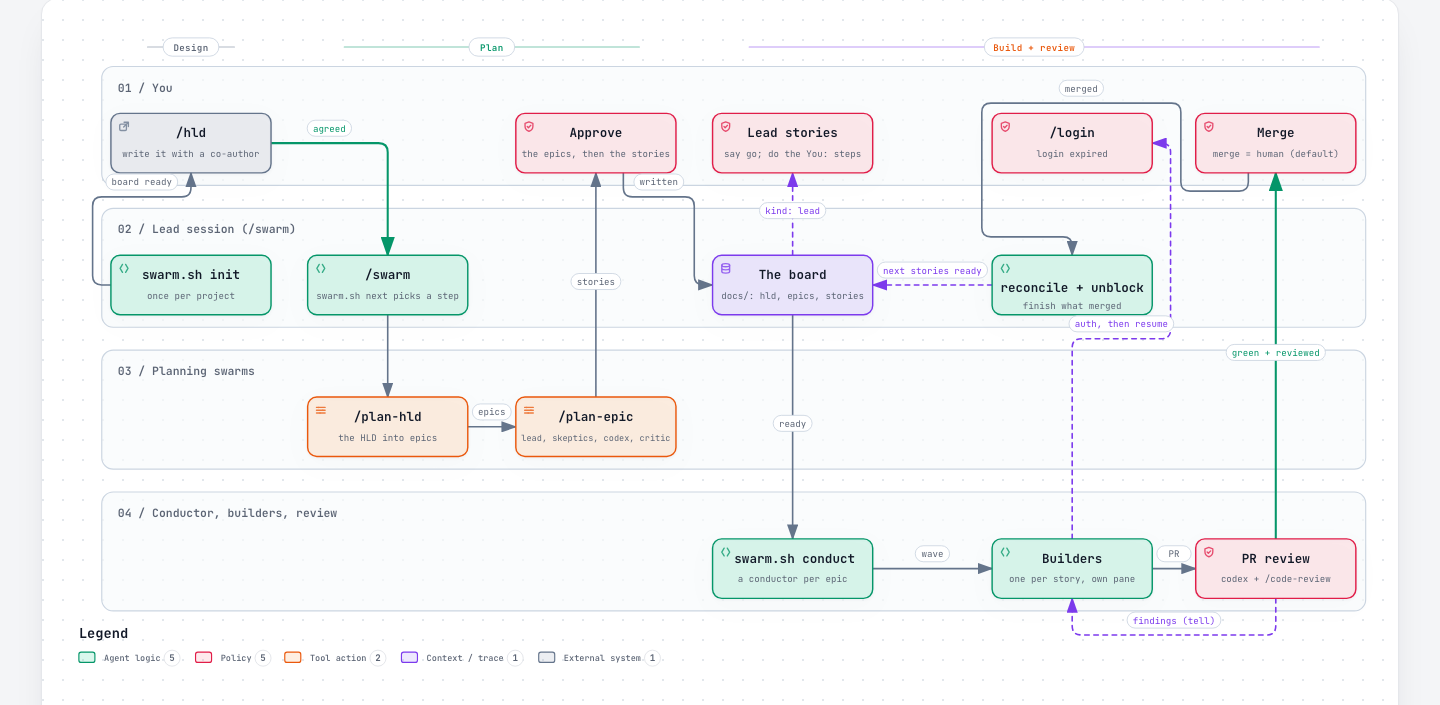
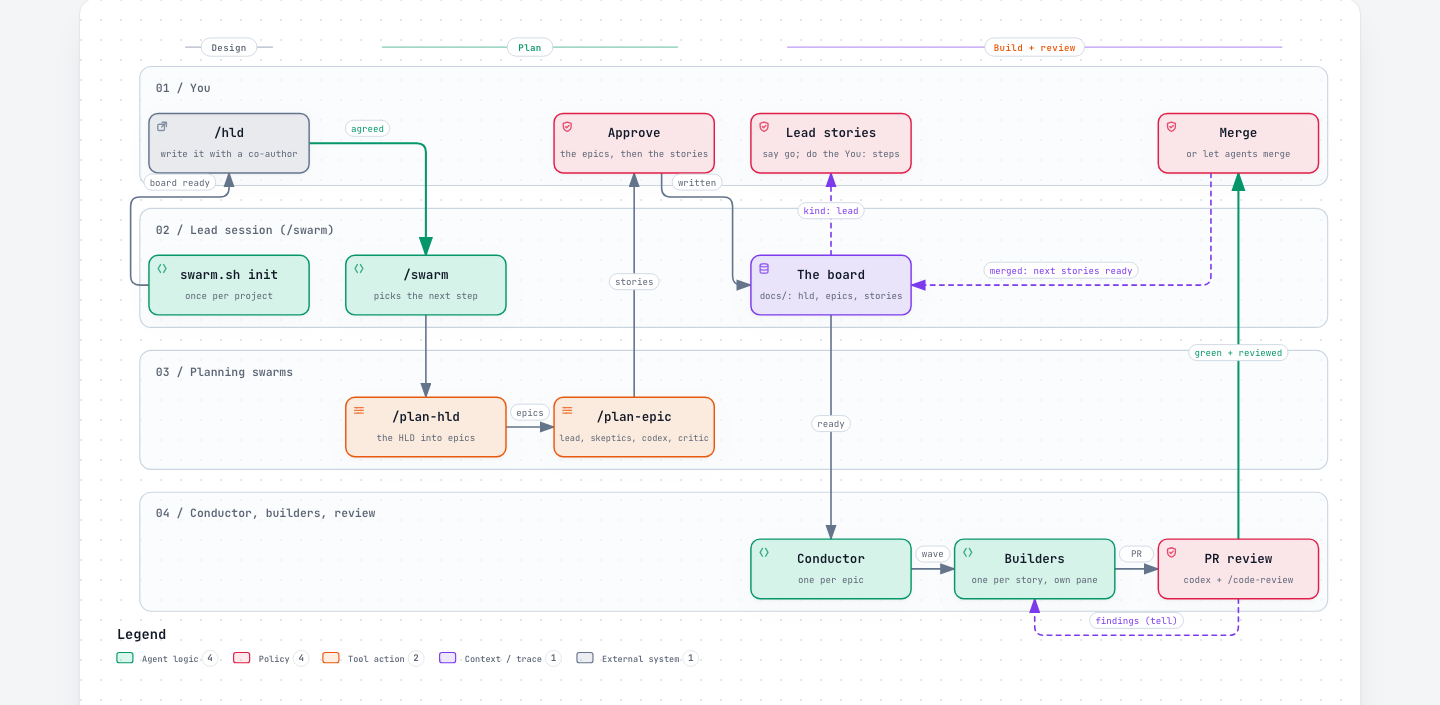
README at a new reader's level; drop /login and reconcile from the flow diagram

diff --git a/README.md b/README.md
@@ -7,7 +7,7 @@ swarm-dev runs a team of Claude Code agents that build software while you watch.
 with one agent. Others plan it, try to break the plan, and build it in parallel, each in its own
 terminal pane. The run stops whenever a decision is yours.
 
-![swarm.sh dash --watch on a demo project, 160 columns wide: what needs you and the epics on the left, recent on the right, a status bar below](docs/assets/dash.gif)
+![swarm.sh dash --watch on a demo project: what needs you and the epics on the left, recent work on the right](docs/assets/dash.gif)
 
 ## How it works
 
@@ -16,82 +16,66 @@ terminal pane. The run stops whenever a decision is yours.
   <img alt="How the swarm builds a design: /hld, /swarm, /plan-hld, /plan-epic, the board, conductor, builders, review, merge" src="docs/assets/swarm-flow-light.png">
 </picture>
 
-You agree the design, approve the epics and stories, merge PRs, and do the steps only a person can.
-Your own Claude session is the lead: it runs `/swarm`, keeps an eye on the agents, and handles
-`kind: lead` stories, which cover real cloud, credentials and anything hard to undo. Your steps in
-those stories are marked **You:**. Agents plan, conduct and build the rest. Each builder gets its
-own worktree and pane, shows that its tests can fail, and fixes the review findings (codex and
-`/code-review`) on its own PR.
+1. You write a high-level design (HLD) with a co-author agent.
+2. A planning swarm splits the design into epics, then each epic into stories of one PR
+   each. Skeptic agents and codex try to break every plan before you see it, and you approve it.
+3. A conductor agent takes an epic and starts one builder per story, each in its own git
+   worktree and pane. Each PR is reviewed by codex and `/code-review`, and the builder fixes what
+   they find.
+4. Green, reviewed PRs wait for you to merge, and the next stories start.
 
-Two loops feed what reviews find back into the work:
+Your own Claude session is the lead. It runs `/swarm`, keeps an eye on the agents, and handles
+`kind: lead` stories: real cloud, credentials and anything hard to undo. Your steps in those
+stories are marked **You:**.
 
-| Loop | What happens |
-|---|---|
-| Inner (one PR) | codex and `/code-review` review the PR, the lead sends findings back with `swarm.sh tell`, and the builder fixes and pushes. This repeats until a pass on the latest head finds nothing substantive. Each fixed finding is logged with `swarm.sh log-finding <kind>`, and each declined one with `log-finding --declined <kind>`. |
-| Outer (across PRs) | When a kind of finding has been fixed in 3 or more PRs within 90 days, or the lead has a memory tagged `lesson: <kind>`, `swarm.sh lessons` turns it into a one-line rule PR titled `lesson: <kind>` for the brief or `lessons_file`. Later builders read that rule. You merge or close it, and a rule you closed is not proposed again for 90 days. |
+When reviews keep finding the same kind of problem across PRs, `/swarm`
+proposes a one-line rule for future builders, as a PR titled `lesson: <kind>`. You merge it
+or close it.
 
-The full method is in [`docs/method.md`](docs/method.md). The diagram's source is
-[`docs/assets/swarm-flow.workflow.json`](docs/assets/swarm-flow.workflow.json), made with
-[Archify](https://github.com/tt-a1i/archify).
+Everything is plain Markdown in `docs/` (the board), so a run can stop anywhere and the next
+`/swarm` picks up where it left off. The full method is in [`docs/method.md`](docs/method.md).
 
 ## Requirements
 
-You need [Claude Code](https://claude.com/claude-code) 2.1.145 or later, [herdr](https://herdr.dev), the
-[GitHub CLI](https://cli.github.com) and the [codex CLI](https://github.com/openai/codex), with both
-CLIs logged in, plus `git`, `python3` and `bash`. herdr is the terminal multiplexer every agent runs
-in, and `/hld`, `/plan-epic` and `/swarm` stop outside it.
+- [Claude Code](https://claude.com/claude-code) 2.1.145 or later
+- [herdr](https://herdr.dev), the terminal multiplexer every agent runs in
+- the [GitHub CLI](https://cli.github.com) and the [codex CLI](https://github.com/openai/codex), both logged in
+- `git`, `python3` and `bash`
 
-swarm.sh reads each agent's state from `claude agents --json`, which older versions lack, so it
-refuses to start an agent on anything before 2.1.145. It also refuses when the session you run it
-from is missing from that list. In either case, run `claude update` and restart Claude Code.
-
-[Obsidian](https://obsidian.md) is optional. It shows `docs/` as a vault through `Board.base` and
-`HLDs.base`, but the board is plain Markdown with front matter and works without it.
+[Obsidian](https://obsidian.md) is optional: it shows the board as a vault, grouped by status.
 
 ![The board in Obsidian, grouped by status](docs/assets/board.png)
 
 ## Getting started
 
-1. Install the requirements above.
-2. Install the plugin, then restart Claude Code:
+1. Install the plugin, then restart Claude Code:
 
    ```bash
    claude plugin marketplace add redscaresu/swarm-dev && claude plugin install swarm-dev@swarm-dev
    ```
 
-3. From your project's root, run `swarm.sh init` (or run `/swarm`, which offers to do it). It
-   copies the board into `docs/`, leaving any file already there alone, creates `.claude/swarm/`
-   and adds `.swarm/` and the Obsidian lines to `.gitignore`. Running it again changes nothing.
+2. In your project's root, run `claude` once and accept "do you trust this folder?". Agents work in
+   worktrees of the repo and can't start until it is trusted.
+3. Inside herdr, run `claude`, then `/swarm`. The first time, it offers to set up the board and asks
+   once for your rules for builders (commit trailers, where credentials live, commands that must
+   never run). Commit the `.claude/swarm/brief.md` it writes.
+4. Run `/hld Add rate limiting to the API`, agree the design with the co-author, then run `/swarm`
+   again. Run it each time it stops for you.
 
-   Then run `claude` once in the repo and accept "do you trust this folder?". Agents work in
-   worktrees of the repo, and `swarm.sh` won't start until it is trusted.
-4. Inside herdr, run `claude`, then `/swarm`. The first time, it asks once for your builder rules
-   (commit trailers, where credentials live, commands that must never run) and writes them to
-   `.claude/swarm/brief.md`; commit that file. Then `/hld Add rate limiting to the API`: agree the
-   design with the co-author, and run `/swarm` again. Run it each time it stops for you.
-
-Ask your agent "how do I use swarm-dev?" or "why did /swarm stop?" and it loads the plugin's
-`swarm-dev` skill, which covers these steps, the stops and the commands.
+Your agent can also answer "how do I use swarm-dev?" and "why did /swarm stop?".
 
 | Command | What it does |
 |---|---|
-| `/hld <title>` | Write the design with a co-author agent. |
+| `/hld <title>` | Write a design with a co-author agent. |
 | `/swarm` | Run everything after the design, stopping when a decision is yours. |
-| `swarm.sh status` | Show agents that need a look (from their Claude session: waiting, gone, unknown, or `auth` when the login expired), what waits on you, and what runs next. |
+| `swarm.sh status` | Show agents that need a look, what waits on you, and what runs next. |
 | `swarm.sh dash --watch` | Open the live dashboard shown above ([details](docs/dash.md)). |
 | `swarm.sh cost` | Show where the tokens went. |
-| `swarm.sh outcomes [--since YYYY-MM-DD]` | Print one TSV row per builder: the story, its kind and risk, the model and effort, cost, tells by kind (findings, nudge, resume; a refused tell is not counted), findings fixed, the PR and how it ended, and which attempt it was. |
-| `swarm.sh decisions [--since YYYY-MM-DD]` | Print JSON lines, one per decision the logs record (model choice, retry, finding fixed or declined, nudge, close), each with the build's outcome. Fields the logs don't hold are null. |
+| `swarm.sh outcomes` | One row per build: model, cost, review rounds, and whether it merged. |
 
-`swarm.sh close` also keeps a gzip'd copy of the Claude session log of each agent it closes in `.swarm/sessions/`,
-because Claude Code deletes session logs after 30 days by default. The copy holds everything the
-session held, secrets included, since nothing is redacted. Only your user can read it, and
-`.swarm/` is git-ignored, so it stays on your machine and is never committed or uploaded.
-
-You can also set things such as `merge = agent` in
-`.claude/swarm/config` ([all settings](docs/method.md#configuring-a-project)). On Foundry, Bedrock
-or Vertex, load your provider settings in `~/.zshrc` so herdr panes pick them up. An alias won't
-reach them:
+Settings such as `merge = agent` go in `.claude/swarm/config`
+([all settings](docs/method.md#configuring-a-project)). On Foundry, Bedrock or Vertex, load your
+provider settings in `~/.zshrc` so herdr panes pick them up. An alias won't reach them:
 
 ```bash
 [[ -n "$HERDR_ENV" ]] && claude() { ( source ~/path/to/your-provider-env.sh && command claude "$@" ) }
@@ -107,22 +91,22 @@ reach them:
 | a PR waiting for you | merge it, or close it to send the story back |
 | a `blocked` or `later` item | nothing, or set it `ready` / `active` to start it |
 | a proposed rule (`lesson: <kind>`) | merge to adopt it, or close it |
-| `auth`: an agent's login expired (`status`, `dash` and `next` show it too) | run `/login` (only you can clear it), then say so; `/swarm`, `/plan-epic` and `/plan-hld` tell the stopped agents to resume |
+| an agent's login expired | run `/login`, then tell `/swarm` it's done |
 
 ## Cost and safety
 
-Every agent is a full Claude Code session, on a model chosen by its role (`swarm.sh policy <role>`).
-Planning one epic starts about ten agents. Agents use your own `claude`, `codex`, `gh` and `git`
-logins and never touch real cloud or credentials. By default no agent merges, so every green,
-reviewed PR waits for you. When codex hits its usage limit, review continues with `/code-review`
-and the PR says so. Two settings try cheaper models for building, and both ship off:
-`sonnet_share = N` builds one in N ordinary code stories on Sonnet so `swarm.sh outcomes` can
-compare it with Opus, and `builder_subagent_model` puts builders' subagents on a smaller model.
+Every agent is a full Claude Code session, on a model chosen by its role, and planning one epic
+starts about ten agents. Agents use your own `claude`, `codex`, `gh` and `git` logins and never
+touch real cloud or credentials. By default no agent merges.
+
+`swarm.sh close` keeps a copy of each closed agent's session log in `.swarm/sessions/`, because
+Claude Code deletes them after 30 days. The copy is not redacted, so it can hold secrets the session
+saw. Only your user can read it, and `.swarm/` is git-ignored, so it never leaves your machine.
 
 `/swarm` tells you when a new version is out. To update, run
 `! claude plugin marketplace update swarm-dev`, then `! claude plugin update swarm-dev@swarm-dev`,
-and restart. See [`SECURITY.md`](SECURITY.md) for security, [`AGENTS.md`](AGENTS.md) for working on
-swarm-dev itself, and [`scripts/demo-dash.sh`](scripts/demo-dash.sh) for the dashboard demo.
+and restart. See [`SECURITY.md`](SECURITY.md) for security and [`AGENTS.md`](AGENTS.md) for working
+on swarm-dev itself.
 
 ## License
 
